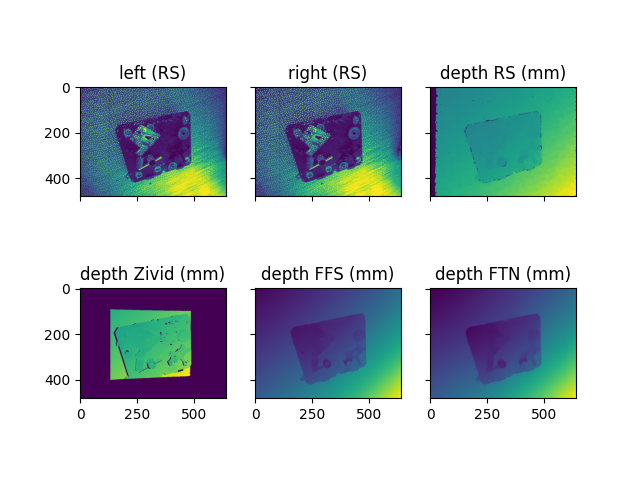
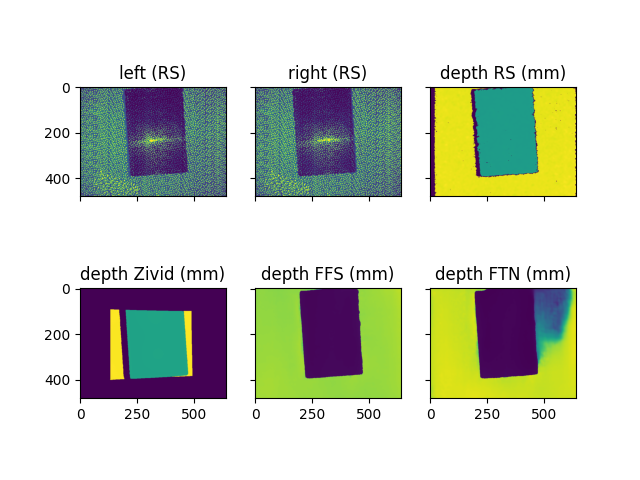
recreating graphs

diff --git a/scripts/benchmark_inbolt_fast_foundation.py b/scripts/benchmark_inbolt_fast_foundation.py
@@ -560,14 +560,14 @@ def plot_depth_scale_regression(
         )
     
 
-    axes[0].plot(
-        fit_x,
-        ideal_slope * fit_x,
-        linestyle="--",
-        color="gray",
-        linewidth=1.5,
-        label=f"ideal (slope={ideal_slope:.1f})",
-    )
+    # axes[0].plot(
+    #     fit_x,
+    #     ideal_slope * fit_x,
+    #     linestyle="--",
+    #     color="gray",
+    #     linewidth=1.5,
+    #     label=f"ideal (slope={ideal_slope:.1f})",
+    # )
     axes[0].set_xlabel("Ground Truth Delta (mm)")
     axes[0].set_ylabel("Measured Depth Delta (mm)")
     axes[0].set_title("Floor Depth Delta: Measured vs Ground Truth")
@@ -846,7 +846,7 @@ def main_inbolt_ffs_graphs_with_projection():
     ftn_depth_rsme = np.arange(n)*0 # zivid mm        
 
     for idx in range(n):
-        data            = source.get_item_projected(idx)
+        data            = source.get_item(idx)
         left            = data['left']
         right           = data['right']
         zv_mm           = data['depth_zivid'].astype(np.float32)   # Zivid GT in mm
@@ -855,7 +855,7 @@ def main_inbolt_ffs_graphs_with_projection():
         ftn_mm          = infer_depth_rs_mm(models["finetuned"], left, right)
    
         # project zivid on rs
-        zv_prj_mm       = zv_mm #project_depth_zivid_to_rs(zv_mm, rs_mm, finx = idx)
+        zv_prj_mm       = project_depth_zivid_to_rs(zv_mm, rs_mm, finx = idx)
 
         rs_valid        = (10 < rs_mm) 
         zv_valid        = (10 < zv_prj_mm) 
@@ -867,11 +867,13 @@ def main_inbolt_ffs_graphs_with_projection():
         ffs_zv_error    = source.compute_depth_error(ffs_mm,    zv_prj_mm, depth_mask=zv_valid & ffs_valid)
         ftn_zv_error    = source.compute_depth_error(ftn_mm,    zv_prj_mm, depth_mask=zv_valid & ftn_valid)
 
-        # # debug
+        # debug
         # img_list = [left, right, rs_mm, zv_prj_mm, ffs_mm, ftn_mm]
         # ttl_list = ['left (RS)', 'right (RS)', 'depth RS (mm)', 'depth Zivid (mm)', 'depth FFS (mm)', 'depth FTN (mm)']
         # source.show_subset(img_list, ttl_list, save_path=DEFAULT_OUT , fig_name = f"sample_{idx:03d}_inputs.png")
-
+        img_list = [zv_zv_error, rs_zv_error, ffs_zv_error, ftn_zv_error]
+        ttl_list = ['Zivid Error', 'RS Error', 'FFS Error', 'FTN Error']
+        source.show_subset(img_list, ttl_list, save_path=DEFAULT_OUT , fig_name = f"error_{idx:03d}_inputs.png")
 
         zv_depth_diff[idx] = np.mean(zv_zv_error) 
         rs_depth_diff[idx] = np.mean(rs_zv_error)
@@ -885,9 +887,111 @@ def main_inbolt_ffs_graphs_with_projection():
            
     
     sm = build_example_depth_scale_regression_series(gt_depth_diff, rs_depth_diff, rs_depth_diff, ffs_depth_diff, ftn_depth_diff, rs_rsme_mm=rs_depth_rsme, zv_rsme_mm=zv_depth_rsme, fs_rsme_mm=ffs_depth_rsme, ft_rsme_mm=ftn_depth_rsme)
-    plot_depth_scale_regression(sm, out_path=Path(DEFAULT_OUT) / "depth_scale_comparison.png", title="Depth Scale Comparison")
+    plot_depth_scale_regression(sm, out_path=Path(DEFAULT_OUT) / "depth_scale_comparison_ffs.png", title="Depth Scale Comparison")
 
     logging.info(f"All outputs written to {out_dir}")
+
+def main_inbolt_ffs_graphs_with_projection_biased_dataset():
+    parser = argparse.ArgumentParser(description=__doc__)
+    parser.add_argument('--out_dir', default=DEFAULT_OUT, help='Output directory for the report')
+    parser.add_argument('--data_dir', default=DATA_DIR, help='Path to dataset root')
+    parser.add_argument('--original', default=MODEL_PATH, help='Path to original model weights')
+    parser.add_argument('--finetuned', default=FINETUNED_PATH, help='Path to fine-tuned model weights')
+    parser.add_argument('--n_viz', type=int, default=N_VIZ, help='Frames saved for visual comparison')
+    args = parser.parse_args()
+
+    U.set_logging_format()
+    out_dir = Path(args.out_dir)
+    out_dir.mkdir(parents=True, exist_ok=True)
+
+    # ── dataset ───────────────────────────────────────────────────────────────
+    source      = DataSource()
+    n           = source.init_directory(input_rectified=args.data_dir)
+    logging.info(f"Found {n} samples in {args.data_dir}")
+    if n == 0:
+        logging.error("No samples found — check DATA_DIR path")
+        return
+    
+    # ── load models ──────────────────────────────────────────────────────────
+    models = {}
+    if Path(args.finetuned).exists():
+        models["finetuned"] = load_model(args.finetuned)
+    else:
+        logging.warning(f"Fine-tuned model not found at {args.finetuned} — skipping")
+
+    models["original"] = load_model(args.original)    
+
+
+    #import cv2 as _cv2   # local import to avoid top-level dependency if already imported
+    gt_depth_diff = np.arange(n)*100 # when drive no meaning for gt depth diff, just want to see the scale of the error, so set to 1 mm
+    rs_depth_diff = np.arange(n)*0 # mm
+    zv_depth_diff = np.arange(n)*0 # zivid mm
+    ffs_depth_diff = np.arange(n)*0 # ffs mm
+    ftn_depth_diff = np.arange(n)*0 # ftn mm
+    rs_depth_rsme = np.arange(n)*0 # mm
+    zv_depth_rsme = np.arange(n)*0 # zivid mm
+    ffs_depth_rsme = np.arange(n)*0 # mm
+    ftn_depth_rsme = np.arange(n)*0 # zivid mm        
+    rs_ref = None
+    zv_ref = None
+    fs_ref = None
+    ft_ref = None    
+    for idx in range(n):
+        data            = source.get_item(idx)
+        left            = data['left']
+        right           = data['right']
+        zv_mm           = data['depth_zivid'].astype(np.float32)   # Zivid GT in mm
+        rs_mm           = data['depth_rs'].astype(np.float32)   # RealSense depth in mm
+        ffs_mm          = infer_depth_rs_mm(models["original"], left, right)
+        ftn_mm          = infer_depth_rs_mm(models["finetuned"], left, right)
+   
+        # project zivid on rs
+        zv_prj_mm       = project_depth_zivid_to_rs(zv_mm, rs_mm, finx = idx)
+
+        if idx == 0:
+            zv_ref = zv_prj_mm
+            rs_ref = rs_mm
+            fs_ref = ffs_mm
+            ft_ref = ftn_mm
+ 
+        zv_valid           = (0 < zv_prj_mm) & (zv_ref > 0)
+        zv_valid           = (zv_prj_mm > zv_prj_mm[zv_valid].max()*0.8)  
+        rs_valid           = (0 < rs_mm) & (rs_ref > 0)
+        rs_valid           = (rs_mm > rs_mm[rs_valid].max()*0.8)
+        fs_valid           = (0 < ffs_mm) & (fs_ref > 0)
+        fs_valid           = (ffs_mm > ffs_mm[fs_valid].max()*0.8)
+        ft_valid           = (0 < ftn_mm) & (ft_ref > 0)
+        ft_valid           = (ftn_mm > ftn_mm[ft_valid].max()*0.8)
+
+        zv_zv_error         = source.compute_depth_error(zv_prj_mm, zv_ref, depth_mask= zv_valid)
+        rs_zv_error         = source.compute_depth_error(rs_mm,     rs_ref, depth_mask= rs_valid)
+        ffs_zv_error        = source.compute_depth_error(ffs_mm,    fs_ref, depth_mask= fs_valid)
+        ftn_zv_error        = source.compute_depth_error(ftn_mm,    ft_ref, depth_mask= ft_valid)
+
+        # debug
+        # img_list = [left, right, rs_mm, zv_prj_mm, ffs_mm, ftn_mm]
+        # ttl_list = ['left (RS)', 'right (RS)', 'depth RS (mm)', 'depth Zivid (mm)', 'depth FFS (mm)', 'depth FTN (mm)']
+        # source.show_subset(img_list, ttl_list, save_path=DEFAULT_OUT , fig_name = f"sample_{idx:03d}_inputs.png")
+        img_list = [zv_zv_error, rs_zv_error, ffs_zv_error, ftn_zv_error]
+        ttl_list = ['Zivid Error', 'RS Error', 'FFS Error', 'FTN Error']
+        source.show_subset(img_list, ttl_list, vmin=-100, vmax=100, save_path=DEFAULT_OUT , fig_name = f"error_{idx:03d}_inputs.png")
+
+        zv_depth_diff[idx] = np.mean(zv_zv_error) 
+        rs_depth_diff[idx] = np.mean(rs_zv_error)
+        ffs_depth_diff[idx] = np.mean(ffs_zv_error)
+        ftn_depth_diff[idx] = np.mean(ftn_zv_error)        
+
+        zv_depth_rsme[idx] = np.sqrt(np.mean(zv_zv_error**2)) 
+        rs_depth_rsme[idx] = np.sqrt(np.mean(rs_zv_error**2))
+        ffs_depth_rsme[idx] = np.sqrt(np.mean(ffs_zv_error**2))
+        ftn_depth_rsme[idx] = np.sqrt(np.mean(ftn_zv_error**2))
+           
+    
+    sm = build_example_depth_scale_regression_series(gt_depth_diff, rs_depth_diff, rs_depth_diff, ffs_depth_diff, ftn_depth_diff, rs_rsme_mm=rs_depth_rsme, zv_rsme_mm=zv_depth_rsme, fs_rsme_mm=ffs_depth_rsme, ft_rsme_mm=ftn_depth_rsme)
+    plot_depth_scale_regression(sm, out_path=Path(DEFAULT_OUT) / "depth_noise_comparison_ffs.png", title="Depth Noise Comparison")
+
+    logging.info(f"All outputs written to {out_dir}")
+
 
 # ── main ─────────────────────────────────────────────────────────────────────
 
@@ -1073,7 +1177,10 @@ if __name__ == '__main__':
     #main()
 
     # 4. inbolt with ffs
-    main_inbolt_ffs_graphs_with_projection()
+    #main_inbolt_ffs_graphs_with_projection()
 
     # 5. inbolt with zivid projection
     #main_inbolt_graphs_with_projection()
+
+    # 6. inbolt with zivid projection on biased dataset
+    main_inbolt_ffs_graphs_with_projection_biased_dataset()

diff --git a/scripts/run_demo.py b/scripts/run_demo.py
@@ -24,10 +24,12 @@ if __name__=="__main__":
   code_dir = os.path.dirname(os.path.realpath(__file__))
   parser = argparse.ArgumentParser()
   parser.add_argument('--model_dir', default=f'{code_dir}/../weights/23-36-37/model_best_bp2_serialize.pth', type=str)
-  parser.add_argument('--left_file', default=f'{code_dir}/../demo_data/left.png', type=str)
-  parser.add_argument('--right_file', default=f'{code_dir}/../demo_data/right.png', type=str)
+  parser.add_argument('--left_file', default=f'{code_dir}/../data/mono/img0074.jpg', type=str)
+  parser.add_argument('--right_file', default=f'{code_dir}/../data/mono/img0076.jpg', type=str)  
+  #parser.add_argument('--left_file', default=f'{code_dir}/../demo_data/left.png', type=str)
+  #parser.add_argument('--right_file', default=f'{code_dir}/../demo_data/right.png', type=str)
   parser.add_argument('--intrinsic_file', default=f'{code_dir}/../demo_data/K.txt', type=str, help='camera intrinsic matrix and baseline file')
-  parser.add_argument('--out_dir', default='/home/bowen/debug/stereo_output', type=str)
+  parser.add_argument('--out_dir', default=f'{code_dir}/../demo_data_out', type=str)
   parser.add_argument('--remove_invisible', default=1, type=int)
   parser.add_argument('--denoise_cloud', default=0, type=int)
   parser.add_argument('--denoise_nb_points', type=int, default=30, help='number of points to consider for radius outlier removal')
@@ -44,7 +46,7 @@ if __name__=="__main__":
   set_seed(0)
   torch.autograd.set_grad_enabled(False)
 
-  os.system(f'rm -rf {args.out_dir} && mkdir -p {args.out_dir}')
+  #os.system(f'rm -rf {args.out_dir} && mkdir -p {args.out_dir}')
 
   with open(f'{os.path.dirname(args.model_dir)}/cfg.yaml', 'r') as ff:
     cfg:dict = yaml.safe_load(ff)
@@ -99,7 +101,7 @@ if __name__=="__main__":
   max_val = None
   vis = vis_disparity(disp, min_val=min_val, max_val=max_val, cmap=cmap, color_map=cv2.COLORMAP_TURBO)
   vis = np.concatenate([img0_ori, img1_ori, vis], axis=1)
-  #imageio.imwrite(f'{args.out_dir}/disp_vis.png', vis)
+  imageio.imwrite(f'{args.out_dir}/disp_0074.png', vis)
   s = 1280/vis.shape[1]
   resized_vis = cv2.resize(vis, (int(vis.shape[1]*s), int(vis.shape[0]*s)))
   cv2.imshow('disp', resized_vis[:,:,::-1])
